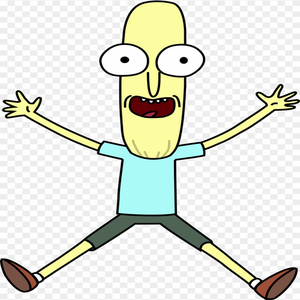
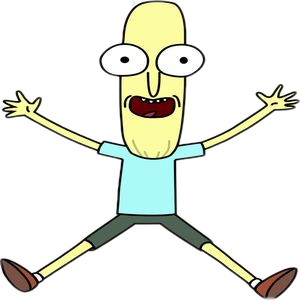
Intro

diff --git a/src/games/goDownUnder/sketch.js b/src/games/goDownUnder/sketch.js
@@ -22,22 +22,35 @@ let engine,
     imgPlayer,
     imgObstacle;
 
+// continue to game from start screen
+document.getElementById('continue').addEventListener('click', (e) => {
+    e.target.parentNode.parentNode.removeChild(e.target.parentNode);
+});
+
+// start game
+document.getElementById('start_game').addEventListener('click', (e) => {
+    loop();
+    e.target.parentNode.parentNode.removeChild(e.target.parentNode);
+});
+
+// preloading some assets
 function preload() {
-    imgBackground = loadImage('src/games/goDownUnder/background-rm.png');
-    //imgPlayer = loadImage('src/games/goDownUnder/spongebob.png');
-    imgPlayer = loadImage('src/games/goDownUnder/image (2).png');
+    imgBackground = loadImage('src/games/goDownUnder/background.png');
+    imgPlayer = loadImage('src/games/goDownUnder/mrpoopybutthole.png');
     imgObstacle = loadImage('src/games/goDownUnder/obstacle.jpg');
 }
 
+// set up the game environment
 function setup() {
+    noLoop();
     let canvas = createCanvas(canvasWidth, canvasHeight);
     canvas.elt.style.left = ((window.innerWidth - canvasWidth) / 2) + 'px';
     engine = Engine.create();
     obstacleColor = [random(1, 255), random(1, 255), random(1, 255), 70];
     const boundOptions = {};
     boundOptions.isStatic = true;
-    boundLeft = Bodies.rectangle(-15, height / 2, 30, height, boundOptions);
-    boundRight = Bodies.rectangle(width + 15, height / 2, 30, height, boundOptions);
+    boundLeft = Bodies.rectangle(-50, height / 2, 100, height, boundOptions);
+    boundRight = Bodies.rectangle(width + 50, height / 2, 100, height, boundOptions);
     World.add(engine.world, [boundLeft, boundRight]);
     player = new Player();
     for (let i = 0; i < 5; i++) {
@@ -45,22 +58,15 @@ function setup() {
     }
 }
 
+// game loop
 function draw() {
     background(0);
-    image(imgBackground, 0, 0, canvasWidth, canvasHeight);
+    image(imgBackground, -100, 0);
     translate(0, -vertOff);
     Engine.update(engine);
-    Body.translate(boundLeft, {
-        x: 0,
-        y: vertSpeed
-    });
-    Body.translate(boundRight, {
-        x: 0,
-        y: vertSpeed
-    });
+    // game over
     if (player.body.position.y + player.r <= vertOff || player.body.position.y - player.r >= vertOff + canvasHeight) {
         noLoop();
-        document.write('Game Over at ' + score + ' points, reload page to try again');
     }
     player.render();
     obstacles.forEach(o => {
@@ -81,7 +87,17 @@ function draw() {
         }
         o.render();
     });
-    if (frameCount % 2 == 0) vertOff += vertSpeed;
+    if (frameCount % 2 == 0) {
+        Body.translate(boundLeft, {
+            x: 0,
+            y: vertSpeed
+        });
+        Body.translate(boundRight, {
+            x: 0,
+            y: vertSpeed
+        });
+        vertOff += vertSpeed;
+    }
     if (keyIsDown(LEFT_ARROW)) {
         player.move(-playerSpeed);
     } else if (keyIsDown(RIGHT_ARROW)) {

diff --git a/src/app.css b/src/app.css
@@ -2,21 +2,99 @@
     margin: 0;
     padding: 0;
     box-sizing: border-box;
+    font-family: 'Lucida Console';
 }
 
 canvas {
     position: absolute;
-    top: 10%;
+    top: 50px;
 }
 
 #score {
     position: absolute;
     width: 50%;
     left: 25%;
-    height: 70px;
-    line-height: 70px;
+    height: 50px;
+    line-height: 50px;
     background: #fff;
     color: #2e2e2e;
     text-align: center;
     font-size: 40px;
+}
+
+.start_game_ctn {
+    position: absolute;
+    top: 60px;
+    left: 25%;
+    width: 50%;
+    height: 50px;
+    background: transparent;
+    text-align: center;
+    z-index: 5000;
+}
+
+#start_game {
+    margin: auto;
+    width: 200px;
+    font-size: 20px;
+    text-align: center;
+    line-height: 50px;
+    background: #062630;
+    color: #1ecaff;
+    border: 2px solid #1ecaff;
+    border-radius: 3px;
+    transition: .2s;
+    cursor: pointer;
+}
+
+#start_game:hover {
+    background: #0b4456;
+}
+
+.intro {
+    position: absolute;
+    width: 100%;
+    height: 100vh;
+    z-index: 7000;
+    background: #fff;
+}
+
+.intro .text {
+    font-family: 'Segoe UI';
+    margin: auto;
+    margin-top: 50px;
+    text-align: center;
+    font-size: 40px;
+    font-weight: 300;
+    color: #062630;
+}
+
+.intro .text span {
+    font-family: 'Segoe UI';
+    font-weight: bold;
+    font-size: 45px;
+}
+
+.intro .img {
+    text-align: center;
+    margin: auto;
+}
+
+.intro .continue {
+    font-family: 'Segoe UI';
+    margin: auto;
+    background: #062630;
+    color: #fff;
+    text-align: center;
+    font-size: 18px;
+    width: 150px;
+    height: 60px;
+    line-height: 60px;
+    border-radius: 5px;
+    cursor: pointer;
+    transition: .2s;
+}
+
+.intro .continue:hover {
+    background: #21707c;
 }

diff --git a/index.html b/index.html
@@ -9,6 +9,14 @@
 
 <body>
     <div id="score">0</div>
+    <div class="start_game_ctn">
+        <div id="start_game">START GAME</div>
+    </div>
+    <div class="intro">
+        <div class="text">THE ADVENTURES OF<br><span>MR. POOPYBUTTHOLE</span></div>
+        <div class="img"><img src="src/games/goDownUnder/mrpoopybutthole-oohweepng.png" alt="mrpoopybutthole"></div>
+        <div id="continue" class="continue">CONTINUE</div>
+    </div>
     <!-- matter.js -->
     <script src="lib/matter.min.js"></script>
     <!--p5-->
